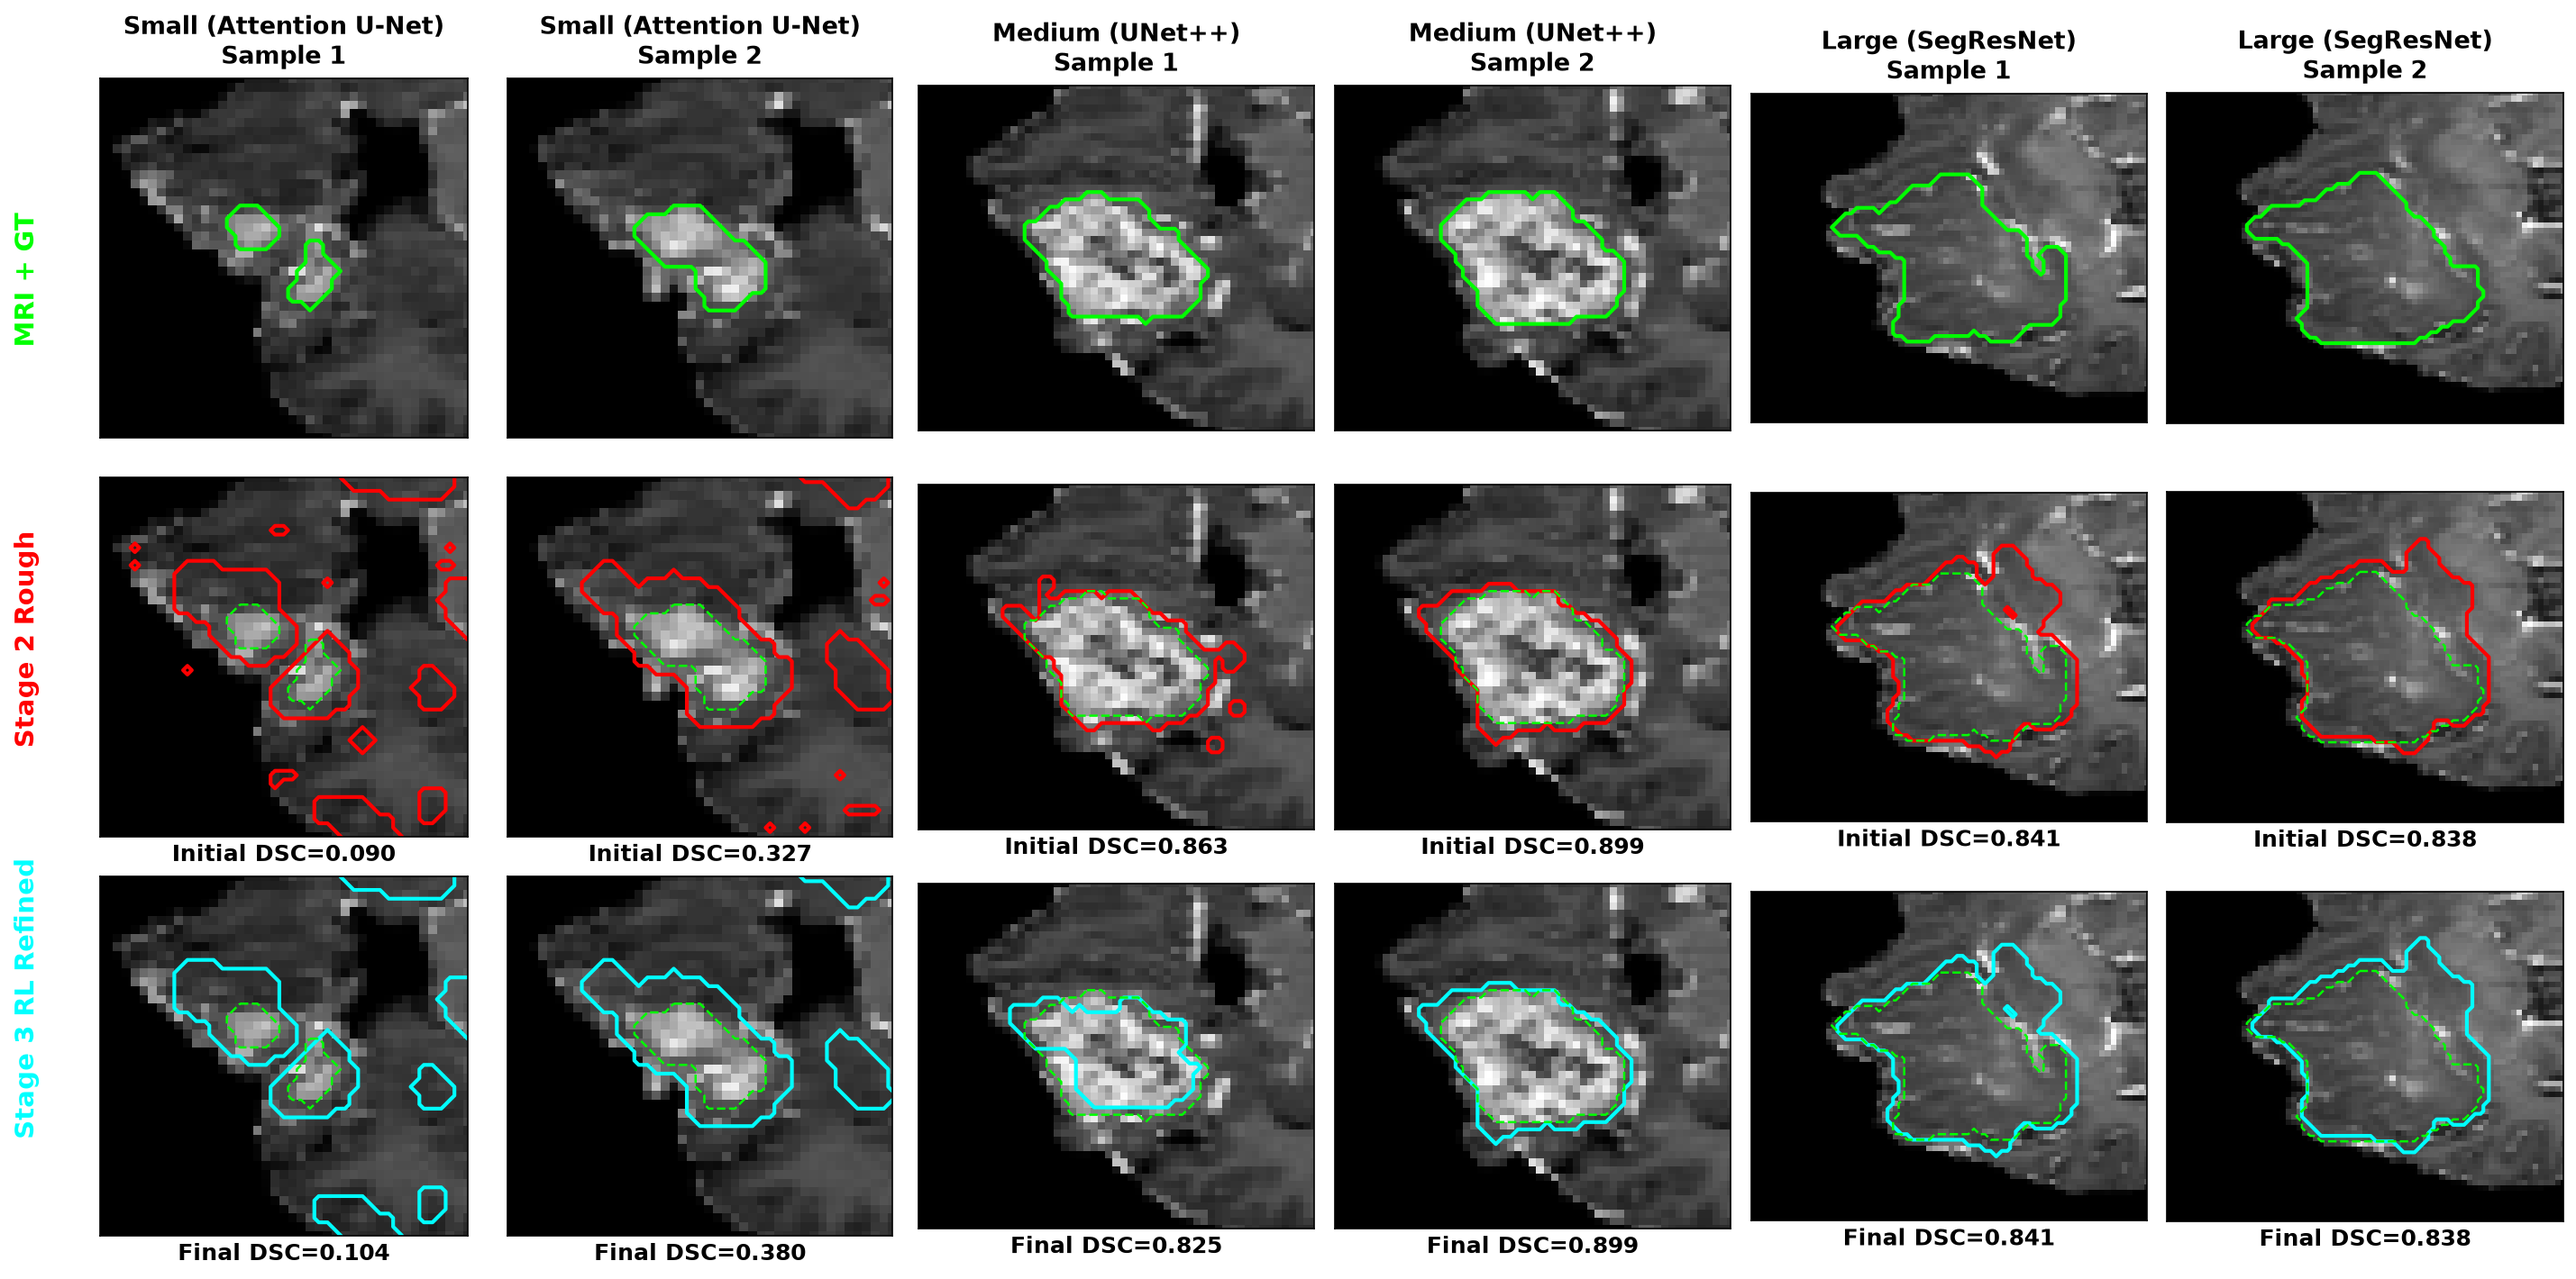
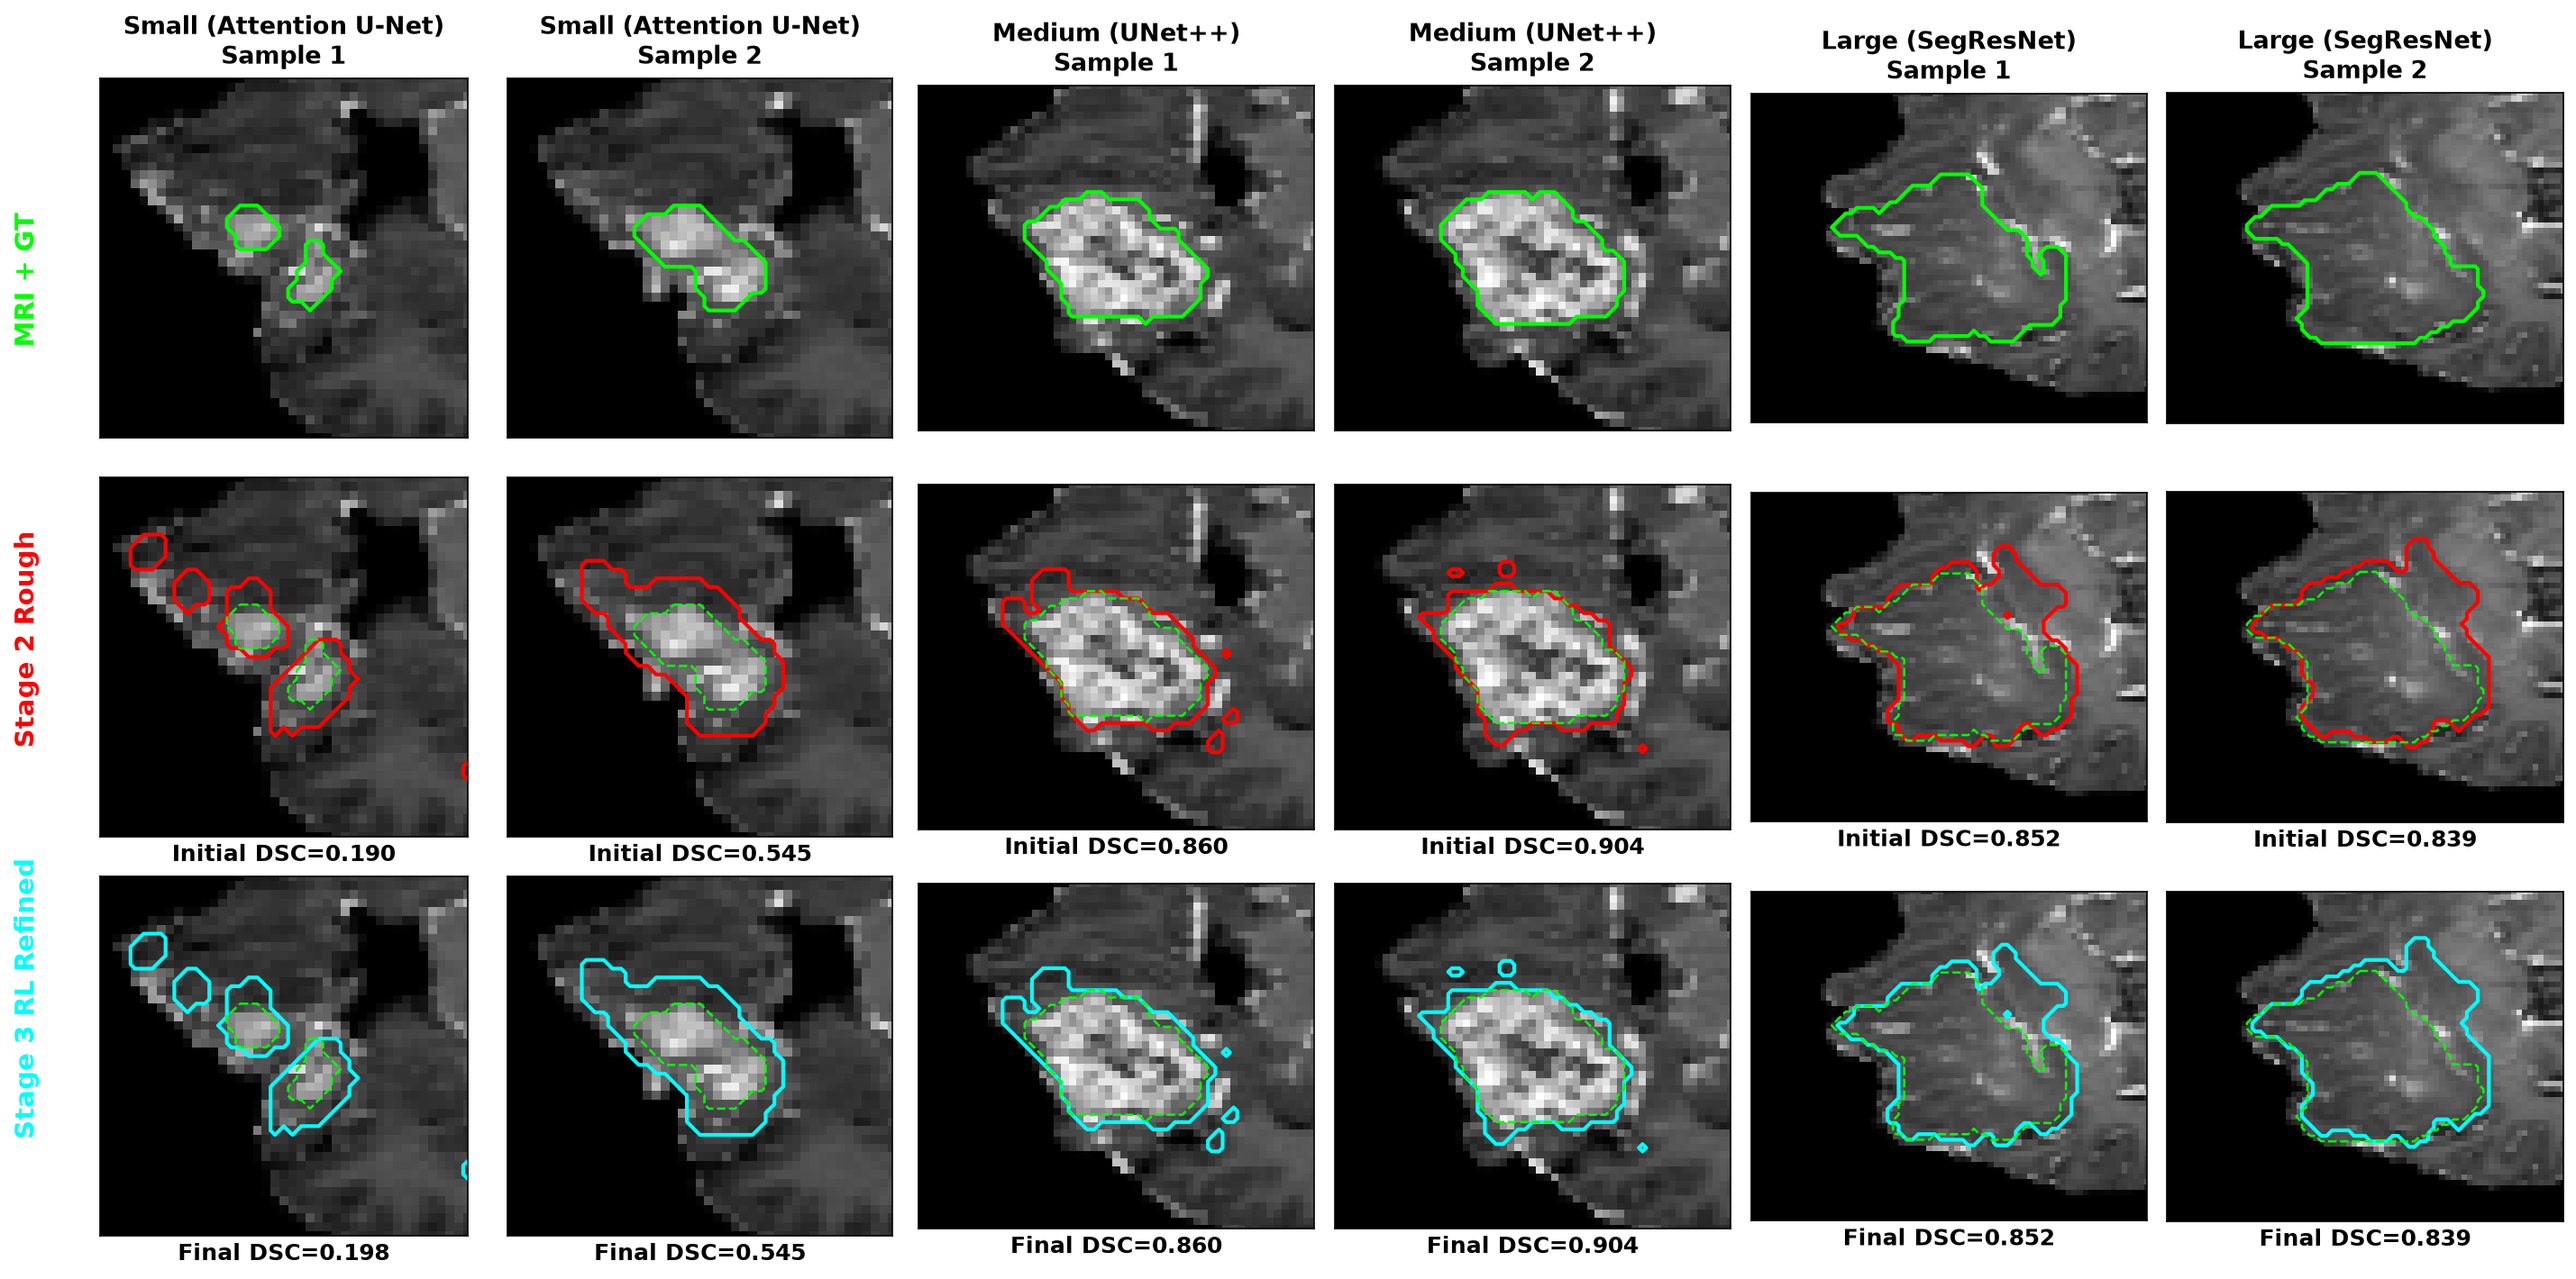
feat: implement BoundaryLoss, PixelShuffle, and adjustable Confidence Guard for SegResNet edge correction

diff --git a/scripts/train/train_segresnet.py b/scripts/train/train_segresnet.py
@@ -29,7 +29,7 @@ from torch.utils.data import DataLoader, random_split
 # 프로젝트 루트를 경로에 추가
 sys.path.insert(0, os.path.abspath(os.path.join(os.path.dirname(__file__), "../..")))
 
-from src.models.segresnet import build_segresnet, DiceLoss, BCEDiceLoss, compute_dice
+from src.models.segresnet import build_segresnet, DiceLoss, BCEDiceLoss, BoundaryLoss, compute_dice
 
 logging.basicConfig(level=logging.INFO, format="%(asctime)s [%(levelname)s] %(message)s")
 log = logging.getLogger(__name__)
@@ -53,7 +53,7 @@ def train_segresnet(
     lr: float = 3e-4,
     save_path: str = "checkpoints/segresnet_best.pt",
     device: str = "auto",
-    use_bce_dice: bool = True,
+    loss_type: str = "bce_dice", # "bce_dice", "dice", "boundary"
     augment: bool = True,
     refinement_mode: str = None, # Added for True Expert filtering
     pretrained_path: str = "",   # Added for Fine-tuning
@@ -201,11 +201,14 @@ def train_segresnet(
     log.info(f"SegResNet 파라미터 수: {n_params:,}  (init_filters={init_filters})")
 
     optimizer = torch.optim.Adam(model.parameters(), lr=lr)
-    if use_bce_dice:
-        criterion = BCEDiceLoss(bce_weight=0.5)
+    if loss_type == "boundary":
+        criterion = BoundaryLoss().to(device)
+        log.info("손실 함수: BoundaryLoss")
+    elif loss_type == "bce_dice":
+        criterion = BCEDiceLoss(bce_weight=0.5).to(device)
         log.info("손실 함수: BCEDiceLoss (BCE 0.5 + Dice 0.5)")
     else:
-        criterion = DiceLoss()
+        criterion = DiceLoss().to(device)
         log.info("손실 함수: DiceLoss")
     scheduler = torch.optim.lr_scheduler.CosineAnnealingLR(optimizer, T_max=epochs)
 
@@ -355,7 +358,10 @@ if __name__ == "__main__":
     parser.add_argument("--epochs", type=int, default=20)
     parser.add_argument("--batch_size", type=int, default=64)
     parser.add_argument("--lr", type=float, default=3e-4)
-    parser.add_argument("--save_path", type=str, default="checkpoints/segresnet_best.pt")
+    parser.add_argument("--save_path", type=str, default="checkpoints/segresnet_best.pt", help="최우수 모델 저장 경로")
+    parser.add_argument("--loss", type=str, default="bce_dice", choices=["bce_dice", "dice", "boundary"], help="사용할 손실 함수")
+    
+    # ── 기타 옵션 ──
     parser.add_argument("--device", type=str, default="auto")
     parser.add_argument(
         "--use_bce_dice",
@@ -383,6 +389,8 @@ if __name__ == "__main__":
     args.augment = not args.no_augment
     # argparse 전용 키 제거
     d = vars(args)
+    d["loss_type"] = d.pop("loss", "bce_dice")
     d.pop("no_bce_dice", None)
     d.pop("no_augment", None)
+    d.pop("use_bce_dice", None)
     train_segresnet(**d)

diff --git a/src/models/segresnet.py b/src/models/segresnet.py
@@ -23,7 +23,7 @@ from monai.networks.layers.factories import Dropout
 from monai.networks.layers.utils import get_act_layer, get_norm_layer
 from monai.utils import UpsampleMode
 
-__all__ = ["SegResNet", "SegResNetVAE", "build_segresnet", "BCEDiceLoss"]
+__all__ = ["SegResNet", "SegResNetVAE", "build_segresnet", "BCEDiceLoss", "BoundaryLoss"]
 
 
 class SegResNet(nn.Module):
@@ -63,7 +63,7 @@ class SegResNet(nn.Module):
         use_conv_final: bool = True,
         blocks_down: tuple = (1, 2, 2, 4),
         blocks_up: tuple = (1, 1, 1),
-        upsample_mode: UpsampleMode | str = UpsampleMode.NONTRAINABLE,
+        upsample_mode: UpsampleMode | str = UpsampleMode.PIXELSHUFFLE,
     ):
         super().__init__()
 
@@ -368,3 +368,39 @@ class BCEDiceLoss(nn.Module):
         dice_loss = 1.0 - dsc.mean()
 
         return self.bce_weight * bce_loss + (1 - self.bce_weight) * dice_loss
+
+from src.envs.mask_refinement_env import _hd95
+
+class BoundaryLoss(nn.Module):
+    """
+    경계 보정을 위한 Dice + HD95 복합 손실 함수.
+    - Large 종양 등 면적이 넓어 Dice는 높지만 끝부분 경계 오차가 큰 경우를 보완.
+    """
+    def __init__(self, smooth: float = 1e-5):
+        super().__init__()
+        self.smooth = smooth
+
+    def forward(self, pred: torch.Tensor, target: torch.Tensor) -> torch.Tensor:
+        # 1. Dice Loss 파트 (로짓에 시그모이드 적용)
+        pred_sig = torch.sigmoid(pred)
+        pred_flat = pred_sig.view(-1)
+        target_flat = target.view(-1)
+        dice = (2.0 * (pred_flat * target_flat).sum() + self.smooth) / \
+               (pred_flat.sum() + target_flat.sum() + self.smooth)
+        
+        # 2. HD95 파트
+        import scipy.ndimage as ndimage
+        import numpy as np
+        
+        pred_mask = (pred_sig[0, 0] > 0.5).detach().cpu().numpy()
+        target_mask = (target[0, 0] > 0.5).detach().cpu().numpy()
+        
+        struct = np.ones((3, 3))
+        boundary_pred = (ndimage.binary_dilation(pred_mask, struct) ^ ndimage.binary_erosion(pred_mask, struct))
+        boundary_gt = (ndimage.binary_dilation(target_mask, struct) ^ ndimage.binary_erosion(target_mask, struct))
+        
+        hd95_val = _hd95(boundary_pred, boundary_gt)
+        hd95_penalty = torch.tensor(hd95_val / max(pred.shape[-2:]), dtype=torch.float32, device=pred.device)
+        
+        # 0.7 Dice Loss + 0.3 HD95 Penalty
+        return 0.7 * (1.0 - dice) + 0.3 * hd95_penalty

diff --git a/scripts/eval/evaluate_pipeline.py b/scripts/eval/evaluate_pipeline.py
@@ -15,6 +15,7 @@ def main():
     parser.add_argument("--modality", type=str, default="t1ce+flair", help="MRI 모달리티 ('t1ce', 't1ce+flair' 등)")
     parser.add_argument("--max_patients", type=int, default=20, help="평가 환자 수")
     parser.add_argument("--max_samples_per_class", type=int, default=100, help="클래스당 최대 샘플 수 (기본값: 100개, 총 300개)")
+    parser.add_argument("--confidence_threshold", type=float, default=0.85, help="RL-Refiner 진입 기준 Confidence (기본 0.85)")
     args = parser.parse_args()
 
     device = torch.device('cuda' if torch.cuda.is_available() else 'cpu')
@@ -126,11 +127,11 @@ def main():
                 ref_mode_k = {0: "small", 1: "medium", 2: "large"}[ck]
                 
                 if agent_k is not None:
-                    # GT-Free Confidence Guard: >0.90일 경우 RL 보정 Skip하여 Initial DSC 100% 보존
+                    # GT-Free Confidence Guard: > threshold 일 경우 RL 보정 Skip하여 Initial DSC 100% 보존
                     comp_selected_probs = rough_prob_np[comp_mask_k > 0.2]
                     comp_confidence = np.mean(comp_selected_probs) if len(comp_selected_probs) > 0 else 0.0
                     
-                    if comp_confidence > 0.90:
+                    if comp_confidence > args.confidence_threshold:
                         refined_components = np.maximum(refined_components, comp_mask_k)
                     else:
                         env_k = MaskRefinementEnv(
@@ -167,8 +168,8 @@ def main():
                 selected_probs = rough_prob_np[rough_mask_np > 0.2]
                 avg_confidence = np.mean(selected_probs) if len(selected_probs) > 0 else 0.0
                 
-                # Confidence Guard (>0.90 Skip)
-                if avg_confidence > 0.90:
+                # Confidence Guard (> threshold Skip)
+                if avg_confidence > args.confidence_threshold:
                     final_mask_np = rough_mask_np
                 else:
                     env = MaskRefinementEnv(

diff --git a/src/envs/mask_refinement_env.py b/src/envs/mask_refinement_env.py
@@ -98,8 +98,10 @@ class MaskRefinementEnv(gym.Env):
         step_penalty: float = 0.005,
         model_type: str = "unet",
         refinement_mode: str = "small", # "small", "medium", "large"
+        confidence_threshold: float = 0.85, # RL-Refiner 진입을 결정하는 기준값
     ):
         super().__init__()
+        self.confidence_threshold = confidence_threshold
         assert images.shape[0] == gt_masks.shape[0] == rough_masks.shape[0]
         self.images = images
         self.gt_masks = gt_masks
